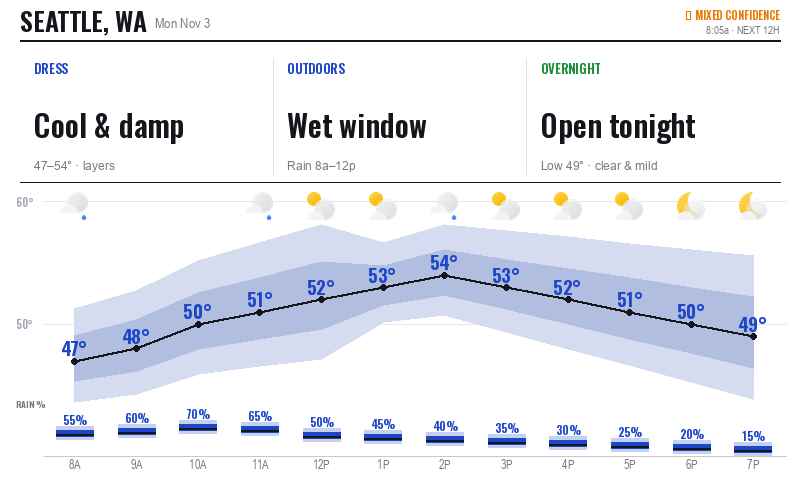
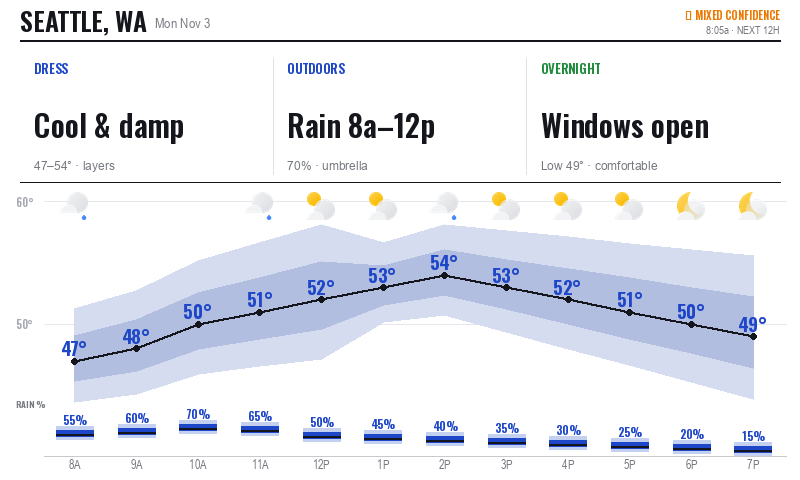
docs: make advice card framing day/night aware
Daytime precip stays an outdoor-framed card (RAIN "Rain 8a-12p",
etc.); anything overnight (rain/storms/snow/comfort) rolls up into one
sleep/windows-framed OVERNIGHT card. Drops the confusing time-"window"
phrasings (Wet window / Great window / Open tonight) for Rain {time} /
Get outside|Quiet night / Windows open. Guards against double precip
cards and fixes fallback to be day/night aware.

Changed region(s): [[0.3438, 0.2188, 0.5625, 0.375], [0.6562, 0.2188, 0.9062, 0.375]]

diff --git a/docs/superpowers/specs/2026-07-02-weather-display-redesign-design.md b/docs/superpowers/specs/2026-07-02-weather-display-redesign-design.md
@@ -86,6 +86,7 @@ smoke / warm-night; Chicago → cool / gusty / turning-colder; plus the two orig
 | hi ≥ 90° | `Hot` | `80–98° · UV n, shade` |
 | hi ≥ 80° | **verified trend, see below** | — |
 | hi ≥ 62° | `Mild` | `52–61° · easy layers` |
+| else | `Cool` / `Cool & damp` | `47–54° · layers` |
 
 **Warm band (hi ≥ 80°) — verdict is chosen from the actual trajectory, never asserted blindly:**
 
@@ -99,27 +100,54 @@ smoke / warm-night; Chicago → cool / gusty / turning-colder; plus the two orig
 This fixes a draft bug where `Warm, cools late` was emitted for *any* hi ≥ 80° regardless of
 whether it actually cooled. **Principle: a card never claims a trend it hasn't verified** — the
 same guard already applied to TREND. (Other slot-1 bands are pure state and need no trend check.)
-| else | `Cool` / `Cool & damp` | `47–54° · layers` |
 
-**Slots 2–3 — situational cards (first-draft triggers & scores; higher wins):**
+**Slots 2–3 — situational cards (first-draft triggers & scores; higher wins).**
 
-| Card | Trigger | Score | Verdict / detail |
+**Framing is day/night aware** — a card only phrases for what you'd actually *do* about it. So
+**daytime precip is its own outdoor-framed card**, and **anything that happens overnight (rain,
+storms, snow, or just comfort) rolls up into a single sleep/windows-framed OVERNIGHT card** —
+no "umbrella" advice for rain that falls while you're asleep, no "get outside" at 11pm.
+
+*Daytime-framed cards (relevant hours are daytime):*
+
+| Card | Trigger (daytime hours) | Score | Verdict / detail |
 |---|---|---|---|
-| SNOW | precip type = snow, pop ≥ 30 | 95 | `Snow all day` · `6" likely · roads slick` |
+| SNOW | precip = snow, pop ≥ 30 | 95 | `Snow all day` · `6" likely · roads slick` |
 | STORMS | thunder ≥ 45 / 25 | 90 / 68 | `T-storms 2p` · `65% · brief, heavy` |
 | SMOKE | US AQI ≥ 150 / 100 | 88 / 64 | `Unhealthy air` · `AQI 168 · stay indoors` |
 | WIND | gusts ≥ 35 / 25 | 80 / 56 | `Gusty` · `Gusts 45 mph · secure loose items` |
-| OUTDOORS/RAIN | pop ≥ 50 (non-snow) | 72 | `Wet window` · `Rain 8a–12p` |
-| UV / SUN | UV ≥ 9 / 6 | 60 / 44 | `Extreme UV` · `Index 11 · cover up` |
+| RAIN | pop ≥ 50 (non-snow) | 72 | `Rain 8a–12p` · `70% · umbrella` (timing is the verdict) |
+| UV | UV ≥ 9 / 6 | 60 / 44 | `Extreme UV` · `Index 11 · cover up` |
 | TREND | cools ≥ 12° **and** late low ≤ 65° | 58 | `Turning colder` · `58°→39° by evening` |
-| OVERNIGHT | night hours ahead | 50 | `Open tonight` / `Warm night` / `Cold night` / `Storms overnight` (by low & storm risk) |
-| (fallback) | nothing else triggers | 30 | `Great window` · `Clear & calm ahead` |
-| SWING | ensemble p10–p90 wide | tbd | `Could be 78–88°` · `models disagree pm` |
 
-Notes from the workshop pass: TREND must be gated on the late low actually being cool (else a
-112°→90° afternoon wrongly reads as "colder"); OVERNIGHT branches by low (`≤45` cold/heat-on,
-`≤68` open, `≥70` warm/stuffy) and by overnight storm risk. **Confidence** is a header badge,
-not a card (from mean band width). SWING scoring is still open.
+*OVERNIGHT (one card; fires when night hours are in the window; verdict = the most salient
+overnight thing, precip before comfort). A precip branch is suppressed if the same precip
+already has a daytime card, so a day-long snow doesn't also print "Snow overnight":*
+
+| Sub-condition | Score | Verdict / detail |
+|---|---|---|
+| overnight thunder ≥ 30 | 85 | `Storms overnight` · `Low 66° · windows shut` |
+| overnight snow | 82 | `Snow overnight` · `Low 30° · roads slick AM` |
+| overnight rain ≥ 50 | 60 | `Rain overnight` · `Low 58° · windows shut` |
+| low ≤ 45 | 55 | `Cold night` · `Low 28° · heat on` |
+| low ≥ 70 | 50 | `Warm night` · `Low 74° · stuffy, fan on` |
+| low 46–68 | 50 | `Windows open` · `Low 62° · comfortable` |
+| low 69 | 50 | `Mild night` · `Low 69°` |
+
+*Fallback (nothing situational fired) — framed by whether the window is mostly day or night:*
+
+| When | Score | Verdict / detail |
+|---|---|---|
+| mostly daytime | 30 | `Get outside` · `Clear & calm ahead` |
+| mostly nighttime | 30 | `Quiet night` · `Clear & calm` |
+
+Notes from the workshop pass: TREND is gated on the late low actually being cool (else a
+112°→90° afternoon wrongly reads "colder"); the old time-"window" metaphor (`Wet window`,
+`Great window`, `Open tonight`) was dropped as confusing. **Confidence** is a header badge, not
+a card (from mean band width). SWING (`Could be 78–88° · models disagree pm`) is approved but its
+scoring — when a wide ensemble earns a slot vs. just widening the band — is still open (§10).
+When fewer than two situational cards fire, only two cards show; whether to always fill the
+third slot (e.g. a sunrise/daylight info card) is an open layout question.
 
 These bands/scores/wording live in `config.py` so they can be tuned after living with the
 display — this is the "make or break" layer and is expected to keep evolving. If a data field
